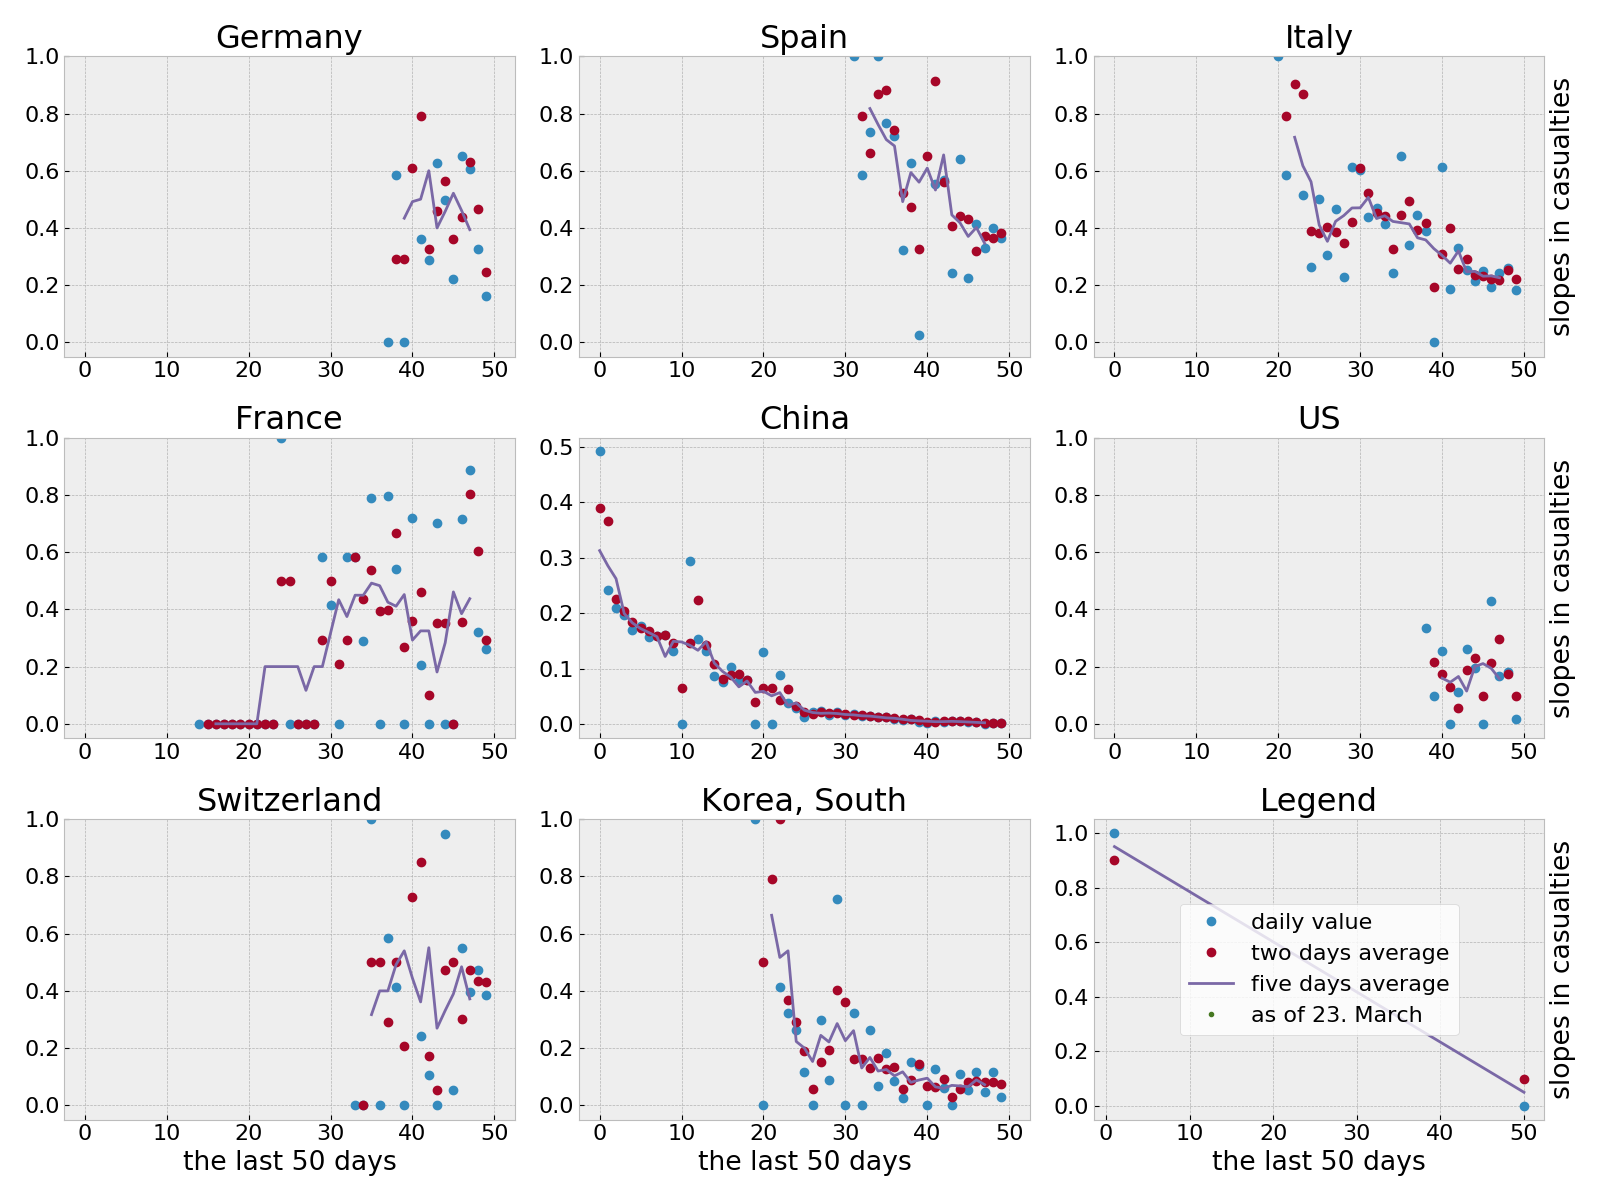
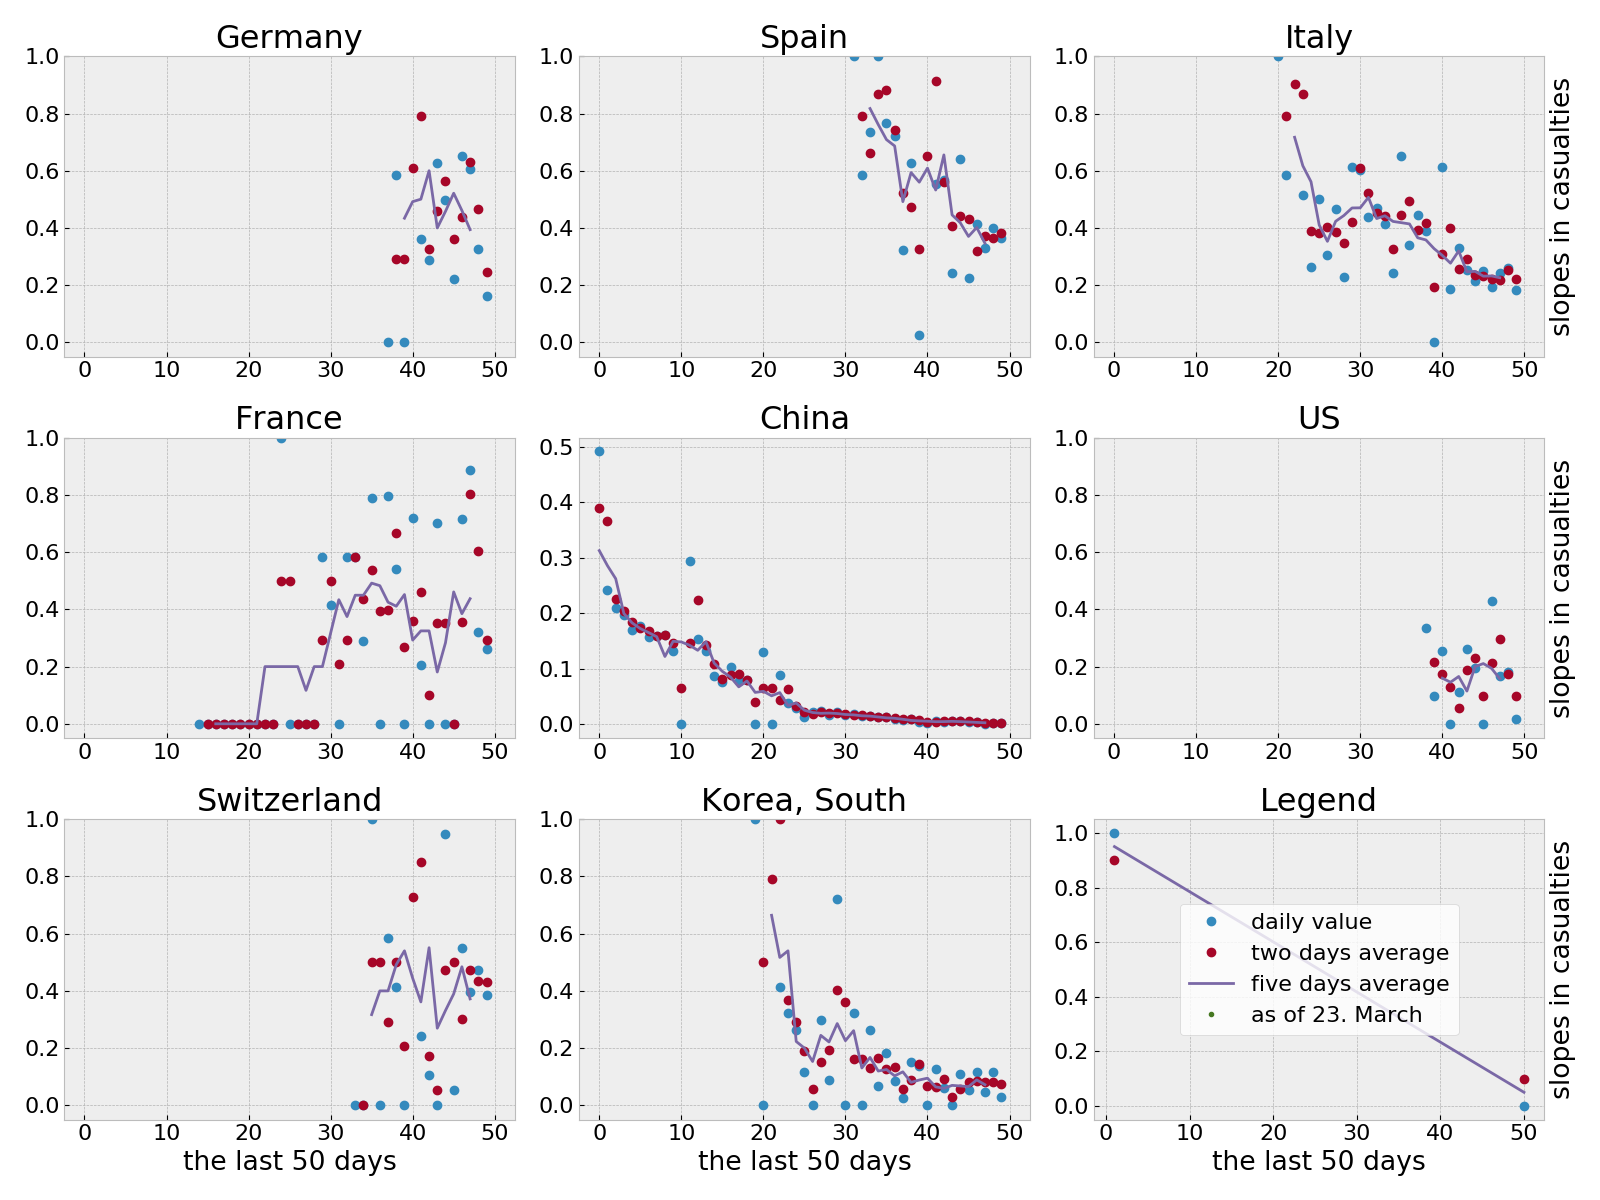
some upds

diff --git a/deathgrowthrates.py b/deathgrowthrates.py
@@ -57,7 +57,7 @@ for idx, mycountry in enumerate(mycountryl):
     ax.plot(slopes[-50:], 'o', label='daily value')
     ax.plot(avgslopes[-50:], 'o', label='two days average')
     ax.plot(nfdl[-50:], label='five days average')
-    ax.set_xlim(xmin=-2.5, xmax=52.5)
+    ax.set_xlim(xmin=-2.45, xmax=52.45)
     if not (mycountry == 'China'):  # or mycountry == 'Korea, South'):
         ax.set_ylim(ymin=-.05, ymax=1.)
     if idx == 6 or idx == 7:
@@ -124,6 +124,7 @@ ax.set_title('Example Scenarios')
 ax.set_ylabel('slopes in casualties')
 ax.set_xlabel('days of simulation')
 ax.yaxis.set_label_position("right")
+plt.tight_layout()
 plt.legend(facecolor='white')
 plt.savefig('slopes-examples.png')
 plt.savefig('slopes-examples.pdf')

diff --git a/README.md b/README.md
@@ -15,7 +15,7 @@ to have the data cloned together with the repo and then run
 python3 deathgrowthrates.py
 ```
 
-to produced the plots.
+to produce the plots.
 
 ![Current values as of March 22nd](slopes-dsifc.png)
 ![Example Scenarios](slopes-examples.png)
